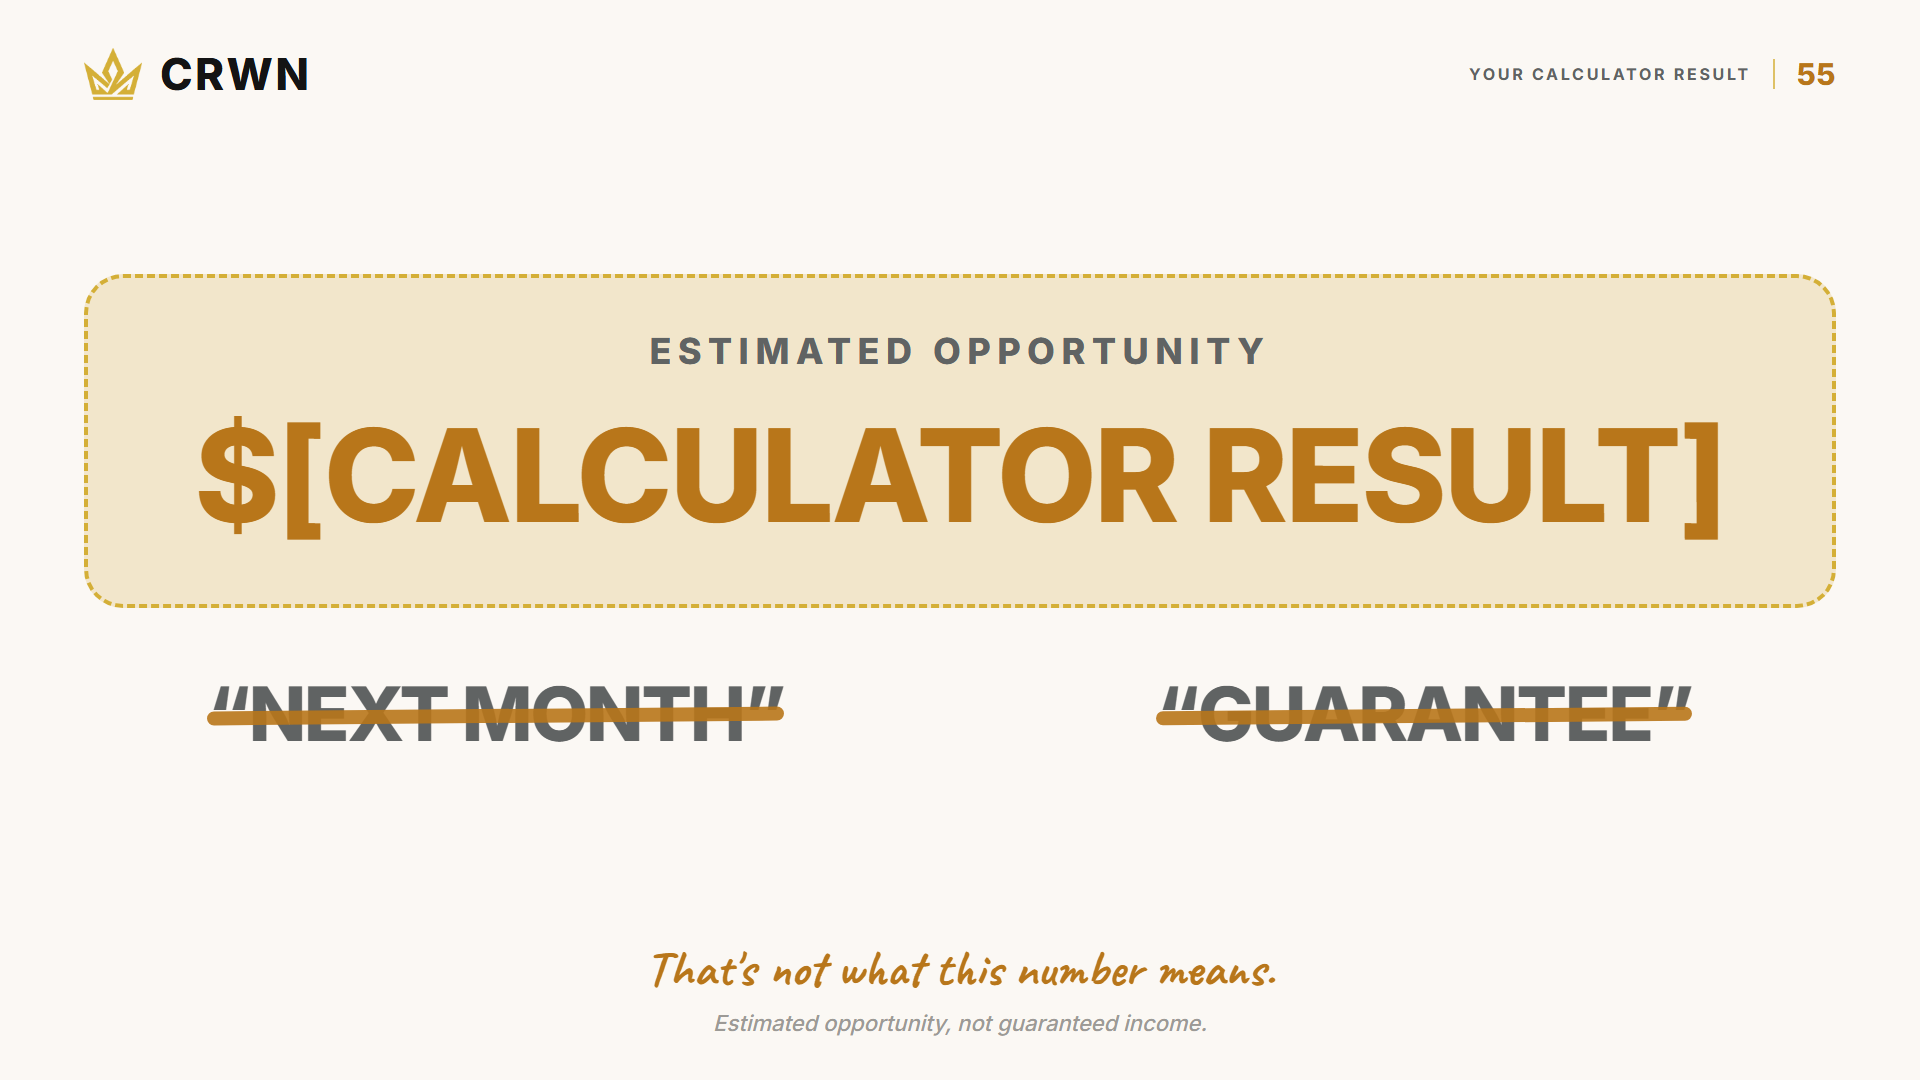
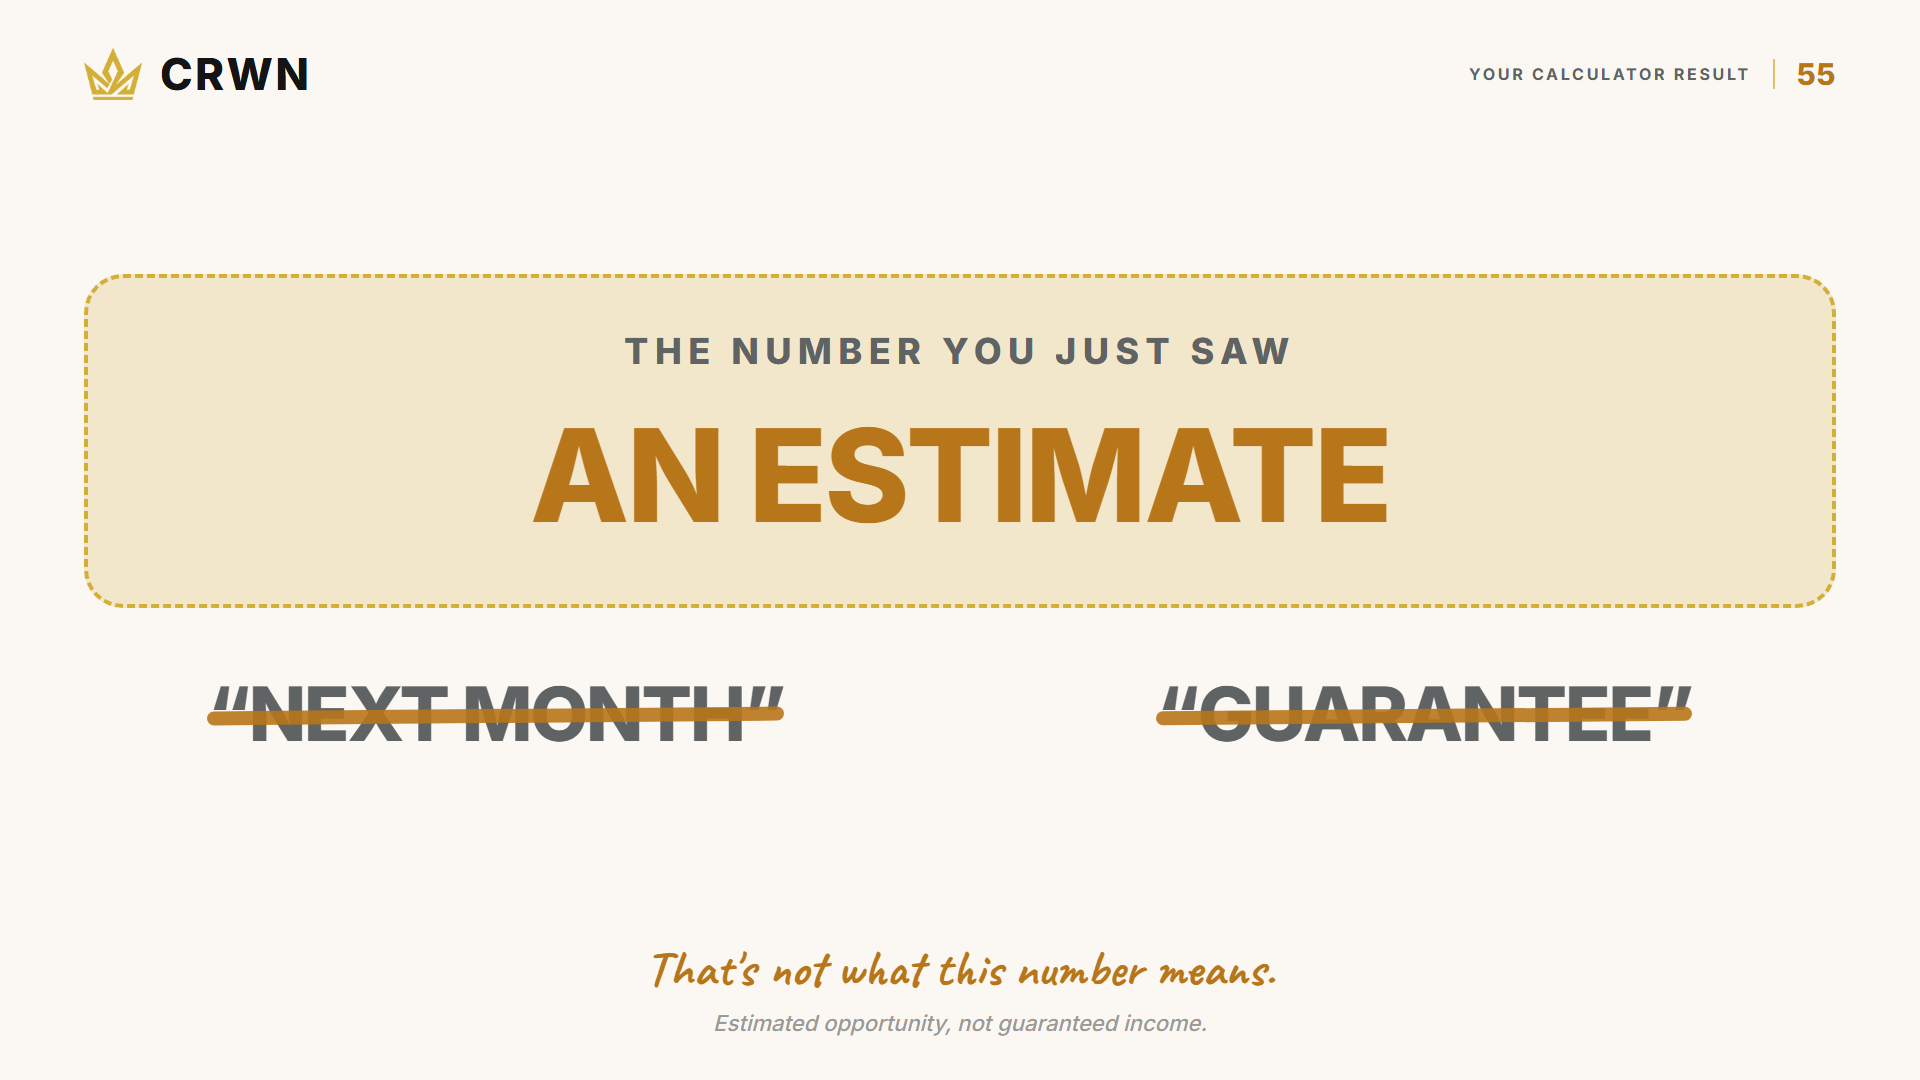
Nothing was ever going to fill that placeholder, and the guard was demanding it
Slides 1 and 55 shipped a dashed gold frame reading $[CALCULATOR RESULT], on the theory that an
editor substitutes the artist's own number per viewer. Nothing substitutes it. This is one rendered
video played to every artist and the result is per-viewer, so the token reached the viewer as
literal brackets on the first frame of the main deck.

The discipline behind it was right: never bake a plausible figure into a rendered slide, because it
becomes a claim the moment anyone treats the deck as final. The mechanism was backwards. Those
slides now NAME the number instead of showing it, which is true for every viewer and needs no
substitution: "WHAT YOU JUST SAW / AN ESTIMATE, NOT A PROMISE" on slide 1, and "THE NUMBER YOU JUST
SAW / AN ESTIMATE" above the struck pair on 55.

The worst part is that the guard REQUIRED the token, so the assertion was enforcing the bug rather
than catching it. It is inverted now: those slides must show no amount and no stray bracket, and
must still call the number an estimate. Three mutations tested it, and a fourth attempt was
instructive on its own: removing the estimate note from slide 1 did NOT fail, correctly, because
the new token says "AN ESTIMATE" itself. Only removing both sources trips it.

resultSlot's default token changed too, so the placeholder cannot come back by simply calling the
primitive with no arguments.

Changed region(s): [[0.0938, 0.3667, 0.9062, 0.5194], [0.3125, 0.3056, 0.6875, 0.3361]]

diff --git a/.claude/skills/vsl-slides/SKILL.md b/.claude/skills/vsl-slides/SKILL.md
@@ -66,13 +66,21 @@ and the percentage rule matched CSS. Strip tags before testing (`visible()` in
 `vsl-calculator.mjs`). A guard that trips on markup is worse than no guard: it pressures you to
 change a good slide. This is the same failure as VSL #3's over-broad term list, in a new costume.
 
-**A per-viewer value ships as a labelled SLOT, never a plausible number.** Slides 1 and 36 of the
-calculator deck show `$[CALCULATOR RESULT]` in a dashed gold frame, the same discipline as
-`recordingSlot`. A realistic figure baked into a rendered slide becomes a claim the moment anyone
-treats the deck as final, and the assertion at the bottom of that deck refuses a render without
-the placeholder. Note the guard shape differs per deck: VSL #4 forbids money everywhere but one
-slide; the calculator deck ALLOWS illustrative pricing and instead requires the qualifier
-("Illustrative examples." or the estimate note) on the same slide as any amount.
+**A per-viewer value is NAMED, never shown, and never left as a placeholder.** A realistic figure
+baked into a rendered slide becomes a claim the moment anyone treats the deck as final. The first
+fix for that was wrong in an instructive way: slides 1 and 55 of the calculator deck shipped
+`$[CALCULATOR RESULT]` in a dashed gold frame, on the theory that an editor substitutes it per
+viewer. **Nothing substitutes it.** One rendered video plays to every artist, so the token reached
+the viewer as literal brackets on frame one, and the deck's own guard REQUIRED it, which meant the
+assertion was enforcing the bug. Those slides now say "WHAT YOU JUST SAW / AN ESTIMATE, NOT A
+PROMISE": true for every viewer, needs no substitution. The guard is inverted to match and forbids
+an amount or a stray `[` on them. `recordingSlot()` is the one legitimate slot, because a screen
+recording IS composited in the edit; a per-viewer NUMBER is not.
+
+Note the guard shape differs per deck: VSL #4 forbids money everywhere but one slide; the calculator
+deck ALLOWS illustrative pricing and real CRWN pricing, and instead requires the right qualifier on
+the same slide as any amount ("Illustrative examples.", the estimate note, or, for a slide stating
+prices CRWN actually charges, its own named entry in `PRICING_NOTES`).
 
 **A deck that makes a COMMERCIAL promise gets verified against the repo, not transcribed.** VSL #4
 states the First Paid Member Guarantee, so its terms were checked before a word was set: the six
